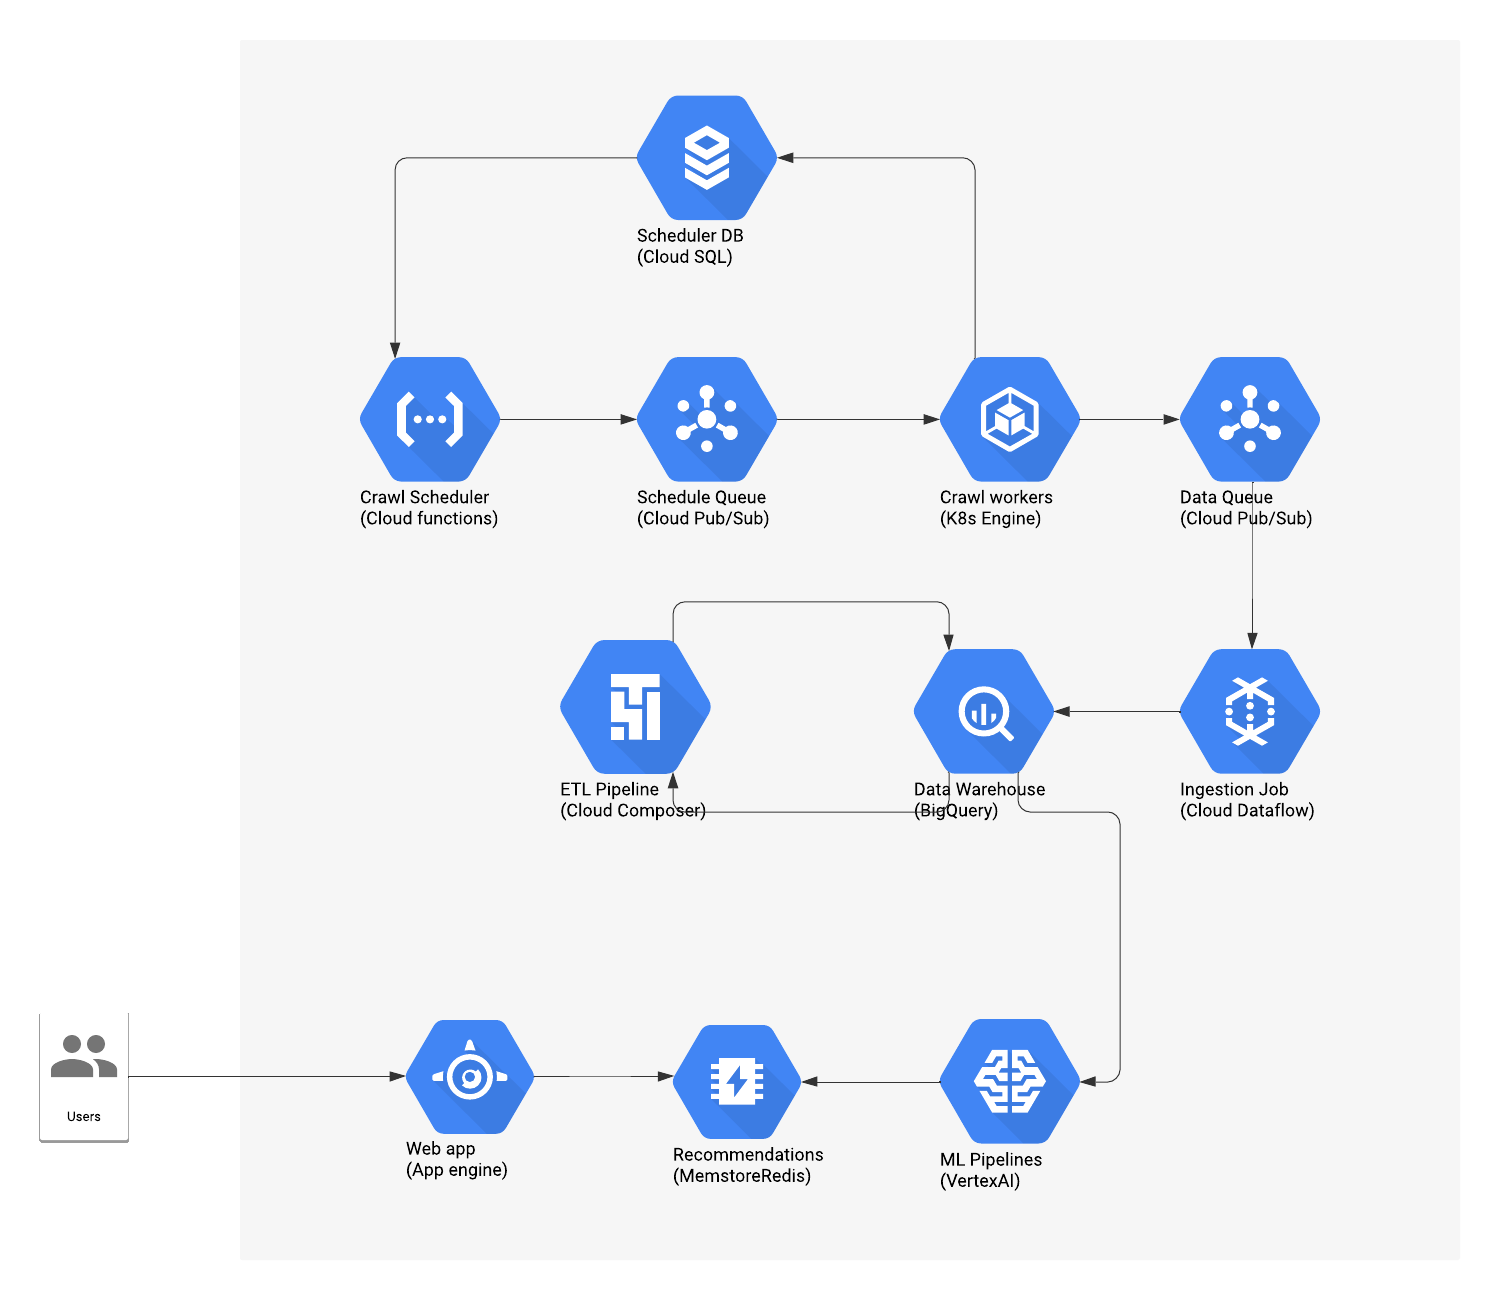
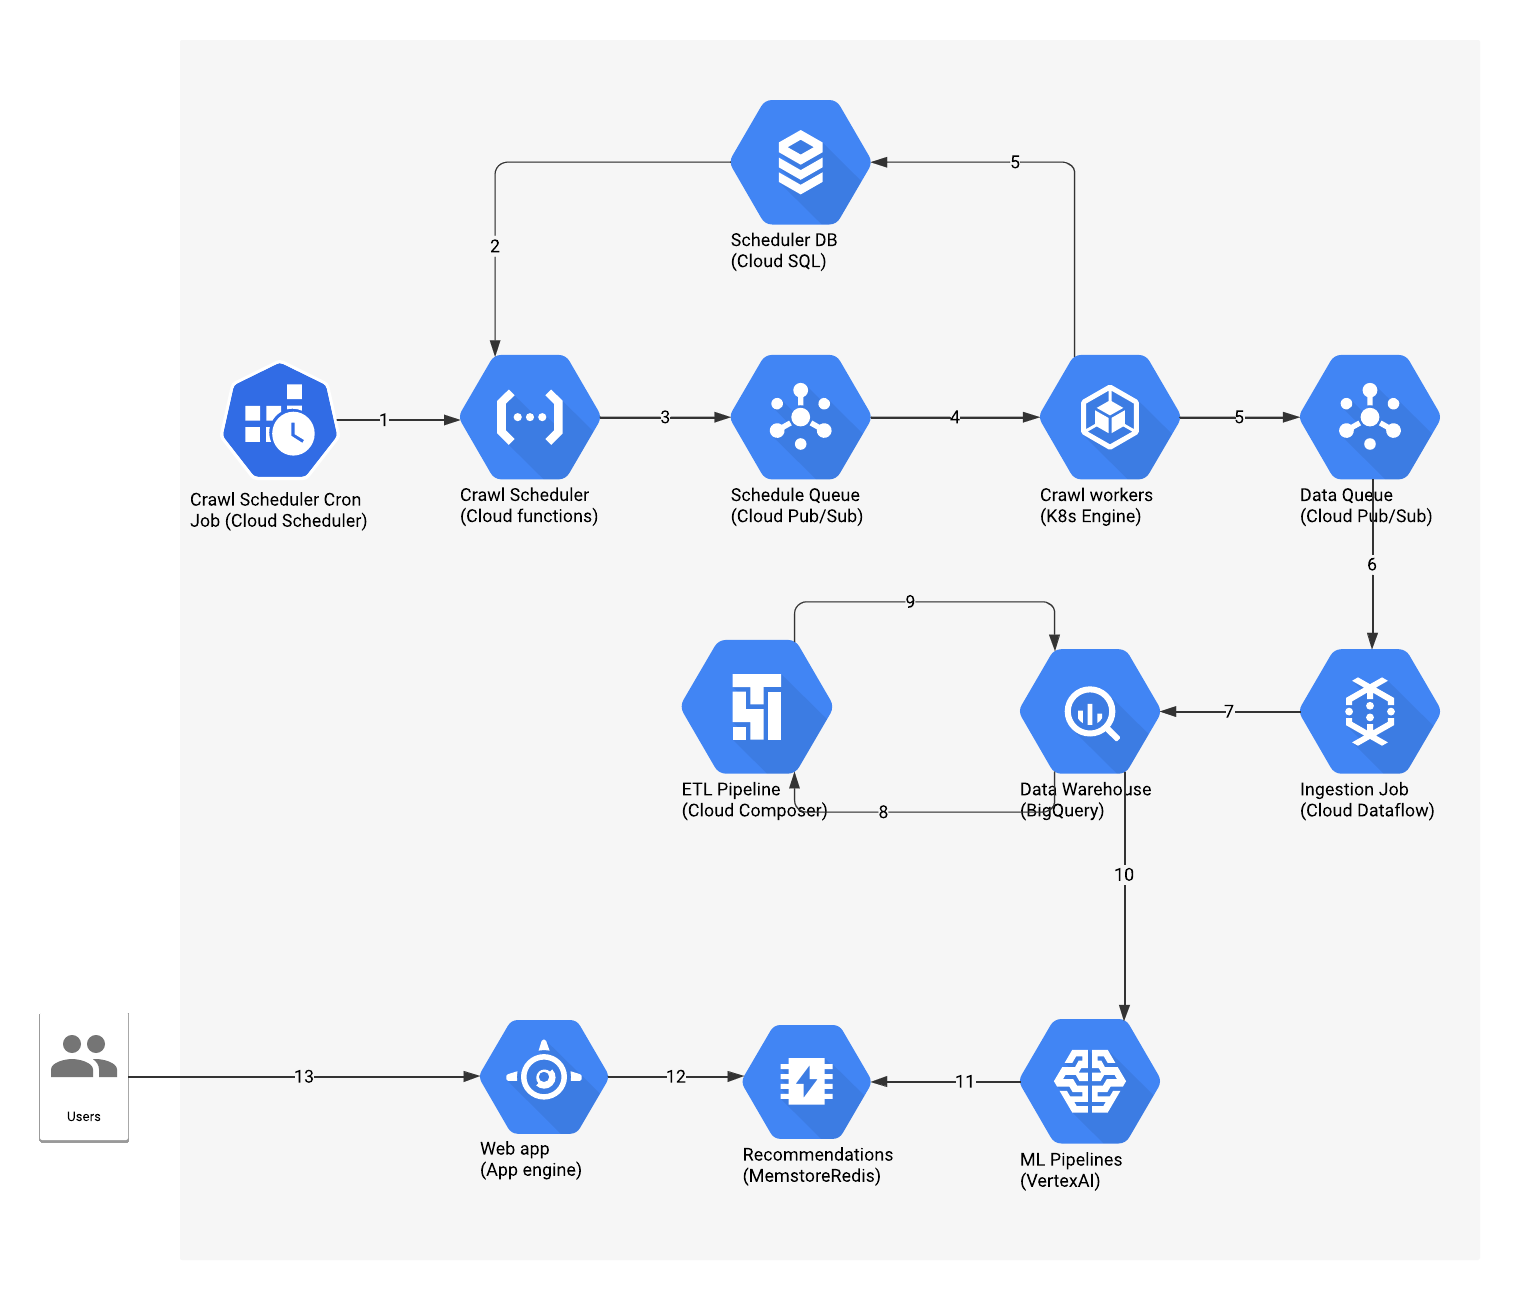
Update Readme

diff --git a/README.md b/README.md
@@ -23,6 +23,7 @@ When I started this project I had a couple of ambitious goals:
 - This could change with the help of the Kaggle community. Kagglers can experiment with the dataset and open PRs to integrate their ML algorithms to the ML pipelines and serve them on the web app.
 
 ## Architecture Design and components
+### System design overview
 ![System Design Pic](system_design.png)
 The project is composed of 5 main parts:
 - Crawl scheduler: A job that when called will fetch a list of anime or profile urls from a database and push them to a message queue.
@@ -33,6 +34,21 @@ The ingestion beam job is deployed as a Dataflow job and the Apache Airflow ETL 
 - Machine Learning Pipelines: Each pipeline handles both retrieval and ranking steps. For retrieval step, the pipeline starts by generating the train/val/test data for retrieval, then trains a retrieval model and finally runs batch inference for retrieval and saves the results. For ranking step, the pipeline starts by generating the train/val/test data for ranking, then trains a ranking model and finally runs batch inference for ranking on the retrieved results and saves the final results. 
 The pipelines are Kubeflow pipelines and they run on Google VertexAI pipelines. Data is fetched from and saved to both BigQuery and Storage.
 - Web App: The generated recommendations are ingested into a Redis database and a small flask web application fetches the recommendations from Redis for each user recommendation request. 
+
+The number steps in the above diagram are:
+- 1: A Cloud Scheduler cron job triggers the crawl scheduler Cloud Functions
+- 2: The crawl scheduler Cloud Function fetches the urls to schedule from the Scheduler Cloud SQL database.
+- 3: The crawl scheduler Cloud Function pushes the urls to crawl to the PubSub schedule queue.
+- 4: The crawl workers running on Google Kubernetes Engine pull the urls from the PubSub schedule queue.
+- 5: The craw workers crawl the urls, update the scheduler database and push the crawled data to the PubSub data ingestion queue.
+- 6: The Dataflow ingestion job pulls the data from the data ingestion queue.
+- 7: The Dataflow ingestion job pushes the data to BigQuery landing area.
+- 8: Cloud Composer ETL pipeline aggregates, merges, cleans and validates the data from the landing area.
+- 9: Cloud Composer ETL pipeline saves the cleaned datasets to BigQuery processed area.
+- 10: Vertex AI ML pipelines use the data in the BigQuery processed area to train ML models and generate batch recommendations.
+- 11: Batch recommendations are duplicated in Cloud Memorystore Redis instance for low latency access.
+- 12: The web application access the Cloud Memorystore Redis instance to fetch the recommendations for each user.
+- 13: User sends a request to the web app and knows which anime to watch.
 
 ### Crawl scheduler
 The scheduler database contains two tables `anime_schedule` and `profile_schedule`. 
@@ -218,7 +234,160 @@ Once that is the app will show the user 5 random animes from the top 20 animes t
 ![Web app 2](web_app_2.png)
 
 ## Steps to run
+### Step 1: Setup local .env file
+First step is to create at the root of this project a .env file and fill it as follows:
+```
+PROJECT_ID=<your-gcp-project-id>
+GOOGLE_APPLICATION_CREDENTIALS=<your-local-gcp-credentials-file>
+SERVICE_ACCOUNT=<here-I-use-the-name-of-project-owner-service-account>
+
+# [CRAWLER]
+CRAWLER_REGION=<gcp-region-you-want-to-run-crawler-on>
+
+ANIME_SCHEDULE_CRON_JOB_NAME=<name-of-anime-scheduler-cron-job>
+ANIME_SCHEDULE_CLOUD_FUNCTION_NAME=<name-of-anime-scheduler-cloud-function>
+PROFILE_SCHEDULE_CRON_JOB_NAME=<name-of-profile-scheduler-cron-job>
+PROFILE_SCHEDULE_CLOUD_FUNCTION_NAME=<name-of-profile-scheduler-cloud-function>
+
+CRAWLER_CLUSTER_ZONE="${CRAWLER_REGION}-a"
+CRAWLER_CLUSTER_NAME="crawler-cluster-${CRAWLER_REGION}"
+
+SCHEDULER_DB_INSTANCE_NAME=<name-of-scheduler-db-instance> 
+SCHEDULER_DB_INSTANCE="${PROJECT_ID}:${CRAWLER_REGION}:${SCHEDULER_DB_INSTANCE_NAME}"
+SCHEDULER_DB_HOST="127.0.0.1" #We use a proxy to connect to the db from the crawler so host is localhost
+SCHEDULER_DB=<name-of-scheduler-database>
+SCHEDULER_DB_USER=<name-of-scheduler-database-user>
+SCHEDULER_DB_PASSWORD=<scheduler-database-user-password>
+
+SCHEDULE_ANIME_PUBSUB_TOPIC=<name-of-anime-schedule-pubsub-topic>
+SCHEDULE_ANIME_PUBSUB_SUBSCRIPTION=<name-of-anime-schedule-pubsub-subscription>
+SCHEDULE_PROFILE_PUBSUB_TOPIC=<name-of-profile-schedule-pubsub-topic>
+SCHEDULE_PROFILE_PUBSUB_SUBSCRIPTION=<name-of-profile-schedule-pubsub-subscription>
+
+# [ETL]
+ETL_REGION=<gcp-region-you-want-to-run-ingestion-and-etl-on>
+DATA_INGESTION_PUBSUB_TOPIC=<name-of-data-ingestion-pubsub-topic>
+DATAFLOW_GCS_BUCKET=<gcs-bucket-path-to-save-dataflow-temp-data>
+DATA_INGESTON_JOB_ID=<dataflow-job-name>
+COMPOSER_ENV_NAME=<composer-environment-name>
+
+# [WEB APP]
+WEB_APP_REGION=<gcp-region-you-want-to-run-web-app-on>
+WEB_APP_REDIS_INSTANCE_ID=<web-app-redis-instance-name>
+WEB_APP_REDIS_VPC_CONNECTOR=<web-app-redis-vpc-connector-name>
+WEB_APP_DATAFLOW_JOB_ID=<click-stream-data-dataflow-ingestion-name>
+WEB_APP_PUBSUB_TOPIC=<click-stream-data-pubsub-topic>
+WEB_APP_BQ_DATASET_ID=<name-of-bigquery-dataset-to-save-click-stream-data>
+WEB_APP_BQ_TABLE_ID=<name-of-bigquery-table-to-save-click-stream-data>
+```
+Here's the example of what I have (for quick copy paste)
+```
+PROJECT_ID=<your gcp project id>
+GOOGLE_APPLICATION_CREDENTIALS=<your-local-gcp-credentials-file>
+SERVICE_ACCOUNT=<here-I-use-the-name-of-project-owner-service-account>
+
+# [CRAWLER]
+CRAWLER_REGION="us-west1"
+
+ANIME_SCHEDULE_CRON_JOB_NAME="anime_crawl_scheduler"
+ANIME_SCHEDULE_CLOUD_FUNCTION_NAME="anime_crawl_scheduler"
+PROFILE_SCHEDULE_CRON_JOB_NAME="profile_crawl_scheduler"
+PROFILE_SCHEDULE_CLOUD_FUNCTION_NAME="profile_crawl_scheduler"
+
+CRAWLER_CLUSTER_ZONE="${CRAWLER_REGION}-a"
+CRAWLER_CLUSTER_NAME="crawler-cluster-${CRAWLER_REGION}"
+
+SCHEDULER_DB_INSTANCE_NAME="scheduler-db-instance-dev"
+SCHEDULER_DB_INSTANCE="${PROJECT_ID}:${CRAWLER_REGION}:${SCHEDULER_DB_INSTANCE_NAME}"
+SCHEDULER_DB_HOST="127.0.0.1"
+SCHEDULER_DB="scheduler_db"
+SCHEDULER_DB_USER="postgres"
+SCHEDULER_DB_PASSWORD="password"
+
+SCHEDULE_ANIME_PUBSUB_TOPIC="anime_crawl_queue"
+SCHEDULE_ANIME_PUBSUB_SUBSCRIPTION="anime_crawl_subscription"
+SCHEDULE_PROFILE_PUBSUB_TOPIC="profile_crawl_queue"
+SCHEDULE_PROFILE_PUBSUB_SUBSCRIPTION="profile_crawl_subscription"
+
+# [ETL]
+ETL_REGION="us-west1"
+DATA_INGESTION_PUBSUB_TOPIC="data_ingestion_queue"
+DATAFLOW_GCS_BUCKET="gs://${PROJECT_ID}-dataflow-temp"
+DATA_INGESTON_JOB_ID="data_ingestion"
+COMPOSER_ENV_NAME="anime-etl-composer-env"
+
+# [WEB APP]
+WEB_APP_REGION="us-central1"
+WEB_APP_REDIS_INSTANCE_ID="anime-rec-dev-web-app-redis"
+WEB_APP_REDIS_VPC_CONNECTOR="redis-vpc-connector"
+WEB_APP_DATAFLOW_JOB_ID="web_app_click_stream_ingest"
+WEB_APP_PUBSUB_TOPIC="web_app_click_stream_topic"
+WEB_APP_BQ_DATASET_ID="web_app"
+WEB_APP_BQ_TABLE_ID="click_data"
+```
+### Step 2: Setup cloud function and web app env_variables.yaml files
+Create the file crawl_scheduler/env_variables.yaml and fill it as follows with the same values defined in the .env file:
+```
+PROJECT_ID: <your-value>
+SCHEDULER_DB_INSTANCE: <your-value>
+SCHEDULER_DB: <your-value>
+SCHEDULER_DB_USER: <your-value>
+SCHEDULER_DB_PASSWORD: <your-value>
+SCHEDULE_ANIME_PUBSUB_TOPIC: <your-value>
+SCHEDULE_PROFILE_PUBSUB_TOPIC: <your-value>
+```
+Create the file web_app/app/env_variables.yaml and fill it as follows with the same values defined in the .env file:
+```
+env_variables:
+    PROJECT_ID: <your-value>
+    PUBSUB_TOPIC: <your-value>
+    REDIS_INSTANCE_HOST: <you-can-find-it-in-the-gcp-console>
+    REDIS_INSTANCE_PORT: "6379"
+```
+### Step 3: Update kubernetes and kubeflow manifest files
+Change the docker image URI in the files in this folder crawler/manifests. Changing the project name is enough.
+Change the docker image URI in the files in ml_pipelines/pipelines/components/*/*/component.yaml. Changing the project name is enough.
+### Step 4: Run the scripts
+#### Crawler
+Run these scripts in order:
+- crawler/scripts/step_1_setup_pubsub.sh
+- crawler/scripts/step_2_setup_cloud_sql_instance.sh
+- crawler/scripts/step_3_setup_crawler_cluster.sh
+- crawler/scripts/step_4_build_docker.sh
+- crawler/scripts/step_5_deploy_crawler.sh
+You should have a service running in Kubernetes engine. Trigger the service with a POST and empty payload at this route /crawl/anime/top.
+This will seed the scheduler DB, which is currently empty.
+
+#### Crawl scheduler
+Run these scripts in order:
+- crawl_scheduler/scripts/step_1_setup_crawl_queues.sh
+- crawl_scheduler/scripts/step_2_deploy_cloud_functions.sh
+- crawl_scheduler/scripts/step_3_setup_cloud_scheduler.sh
+
+#### ETL
+Run these scripts in order:
+- etl/scripts/step_0_setup_bq.sh
+- etl/scripts/step_1a_prepare_dataflow_ingestion_template.sh
+- etl/scripts/step_1b_start_dataflow_ingestion_job.sh
+- etl/scripts/step_2a_create_composer_env.sh
+- etl/scripts/step_2b_import_dag_composer.sh
+- etl/scripts/step_2c_trigger_etl_dag.sh (also whenever you want to rerun the ETL pipeline)
+
+#### ML Pipelines
+Run these scripts in order:
+- ml_pipelines/scripts/step_1_build_docker.sh
+- ml_pipelines/scripts/step_2_run_pipelines.sh (also whenever you want to rerun the ML pipelines)
+
+#### Web app:
+Run these scripts in order:
+- web_app/scripts/step_1_setup_redis.sh
+- web_app/scripts/step_2_setup_click_data_pipeline.sh
+- web_app/scripts/step_3_deploy.sh
 
 ## Future work
+- Create a good looking UI for the web app
+- Change infrasture scripts to terraform
+- Set up CI/CD and CT workflows
 
 ## Acknowledgements
+I would like to appreciate MyAnimeList.net for the great platform and JikanAPI for the great anime API they provide.
